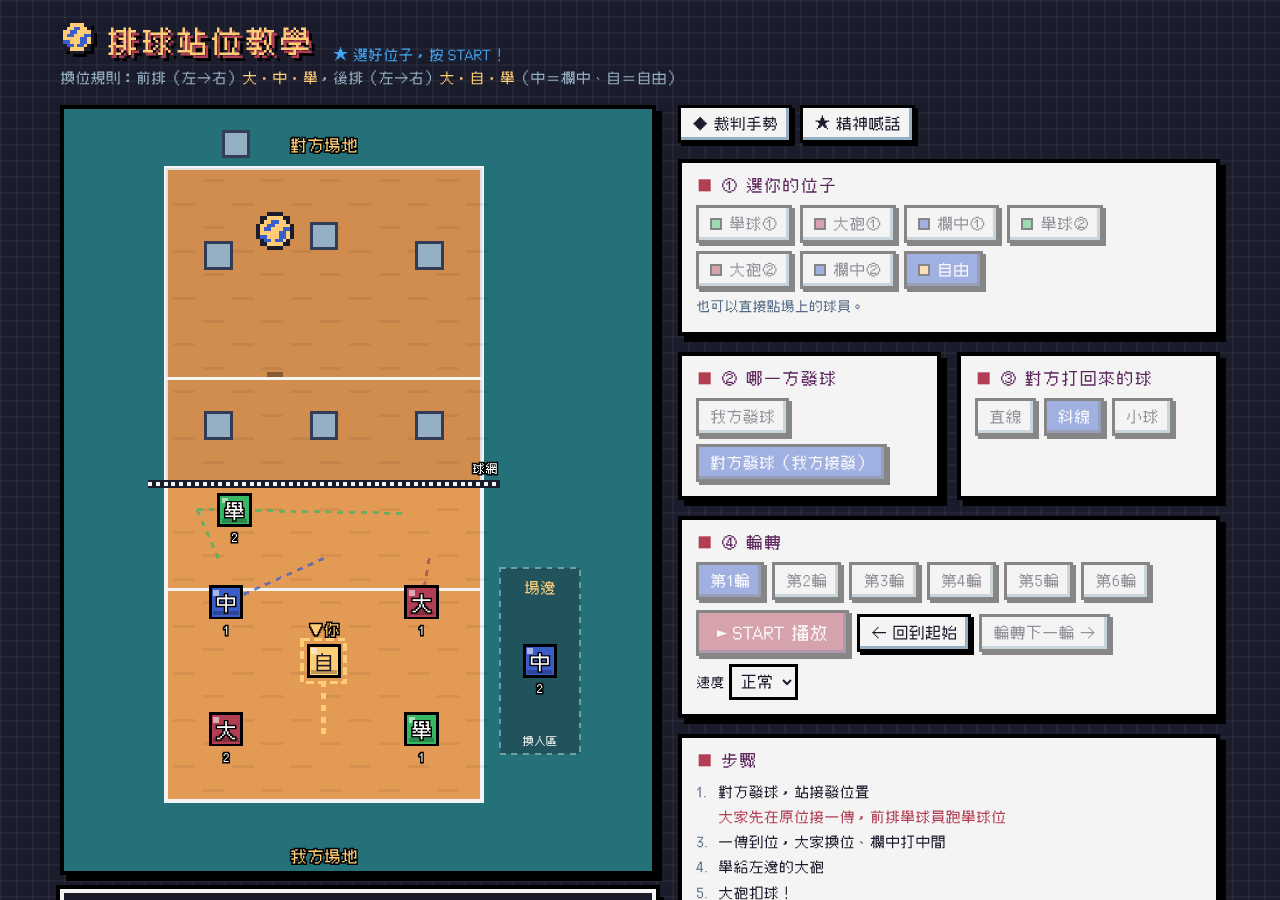
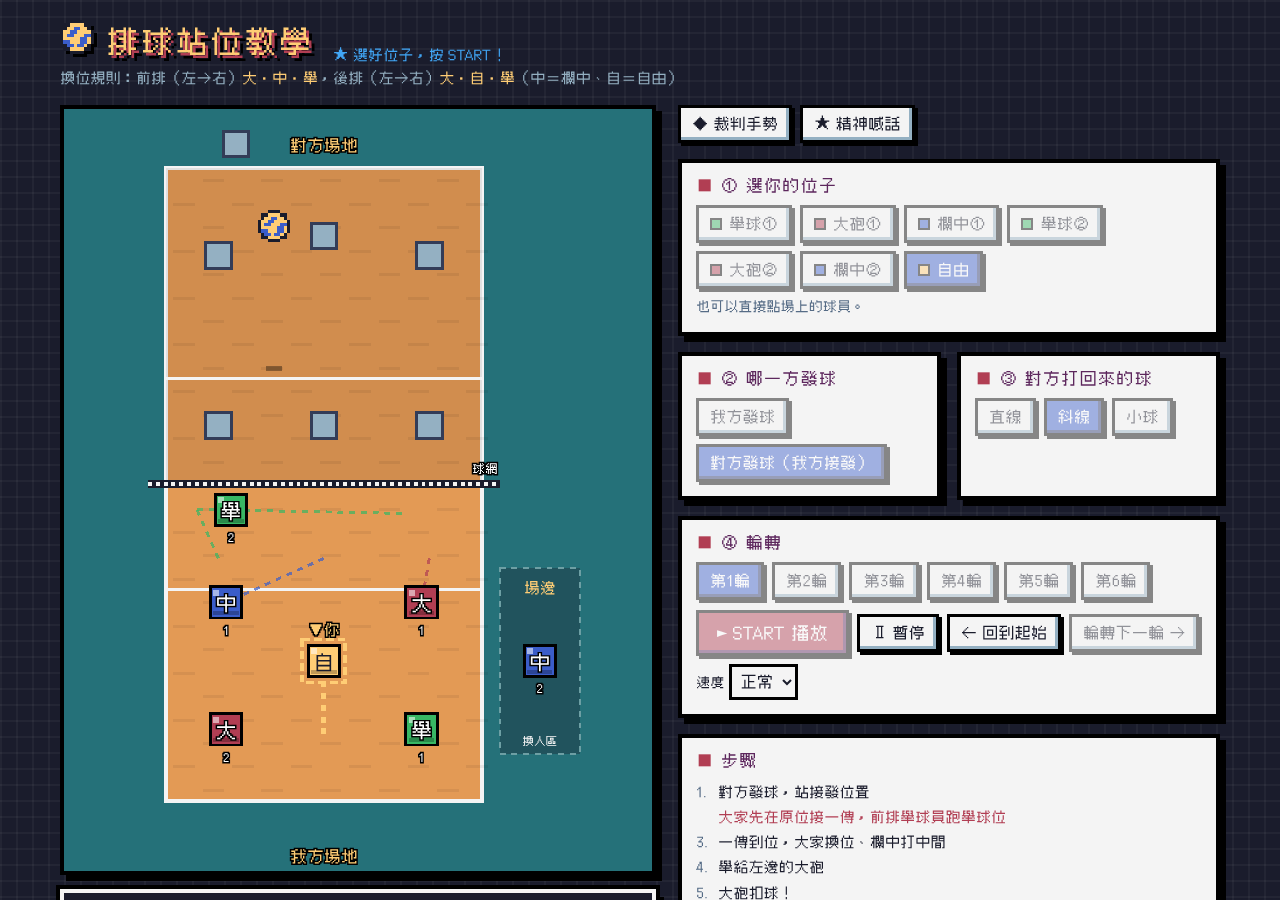
新增暫停 / 繼續按鈕
Claude-Session: https://claude.ai/code/session_0111Jq42HSaSmuEgEPrctLA6

diff --git a/index.html b/index.html
@@ -145,6 +145,7 @@
       <div class="row" id="rotRow"></div>
       <div class="row" style="margin-top:10px;align-items:center">
         <button class="play" id="playBtn">► START 播放</button>
+        <button id="pauseBtn" disabled>Ⅱ 暫停</button>
         <button id="resetBtn">← 回到起始</button>
         <button id="nextBtn">輪轉下一輪 →</button>
         <label style="font-size:13px">速度
@@ -242,7 +243,7 @@ const ATK = {
   tip:   {name:'小球', text:'對方吊小球在攔網後面，<b>後排右的舉</b>往前衝救球。'}
 };
 
-let rot = 1, side = 'us', atk = 'cross', sel = null, speed = 1, token = 0, playing = false;
+let rot = 1, side = 'us', atk = 'cross', sel = null, speed = 1, token = 0, playing = false, paused = false;
 let cur = [], lu = null;
 
 const posOf = (i, r = rot) => (((i - (r - 1)) % 6) + 6) % 6 + 1;
@@ -372,10 +373,12 @@ function tween(dur, moves = [], ball = null){
   moves.forEach(m => addTrail(m.i, cur[m.i], m.to));
   const from = moves.map(m => cur[m.i].slice());
   return new Promise(res => {
-    const start = performance.now();
+    let last = performance.now(), elapsed = 0;
     function frame(now){
       if (my !== token) return res(false);
-      const t = Math.min(1, (now - start) / (dur * 1000 / speed));
+      if (!paused) elapsed += (now - last) * speed;
+      last = now;
+      const t = Math.min(1, elapsed / (dur * 1000));
       moves.forEach((m, k) => {
         const d = m.delay || 0;
         const u = ease(Math.max(0, Math.min(1, (t - d) / (1 - d))));
@@ -390,7 +393,24 @@ function tween(dur, moves = [], ball = null){
     requestAnimationFrame(frame);
   });
 }
-function wait(ms){ const my = token; return new Promise(res => setTimeout(() => res(my === token), ms / speed)); }
+function wait(ms){
+  const my = token;
+  return new Promise(res => {
+    let last = performance.now(), elapsed = 0;
+    function frame(now){
+      if (my !== token) return res(false);
+      if (!paused) elapsed += (now - last) * speed;
+      last = now;
+      if (elapsed >= ms) res(true); else requestAnimationFrame(frame);
+    }
+    requestAnimationFrame(frame);
+  });
+}
+function setPaused(v){
+  paused = v;
+  $('pauseBtn').textContent = paused ? '► 繼續' : 'Ⅱ 暫停';
+  $('pauseBtn').classList.toggle('on', paused);
+}
 
 let stepItems = [];
 function setSteps(list){ $('steps').innerHTML = list.map(s => `<li>${s}</li>`).join(''); stepItems = [...$('steps').children]; }
@@ -581,6 +601,8 @@ function updateBtns(){
   $('sideUs').className = side === 'us' ? 'on' : '';
   $('sideThem').className = side === 'them' ? 'on' : '';
   ['sideUs','sideThem','nextBtn','playBtn'].forEach(id => $(id).disabled = playing);
+  $('pauseBtn').disabled = !playing;
+  if (!playing && paused) setPaused(false);
 }
 
 function renderInfo(){
@@ -606,6 +628,7 @@ $('sideThem').onclick = () => { side = 'them'; reset(); };
 $('playBtn').onclick = play;
 $('resetBtn').onclick = () => reset();
 $('nextBtn').onclick = nextRot;
+$('pauseBtn').onclick = () => { if (playing) setPaused(!paused); };
 $('speed').onchange = e => speed = parseFloat(e.target.value);
 
 $('refBtn').onclick = () => $('refModal').style.display = 'flex';

diff --git a/README.md b/README.md
@@ -55,7 +55,8 @@
 
 ### 其他
 - **動畫說明**：場地下方的字幕和右邊的「步驟」清單，會跟著動畫一步一步說明
-- **速度**：可調慢、正常、快
+- **暫停 / 繼續**：播放中可以隨時按「Ⅱ 暫停」停在某個畫面講解，再按「► 繼續」接著播
+- **速度**：可調慢、正常、快（播放中也能直接切換）
 - **◆ 裁判手勢**：按下去會跳出排球裁判手勢圖
 - **★ 精神喊話**：整理接發、接球、攔網、吊球、喊聲的觀念與提醒，重點用黃底標出來
 
